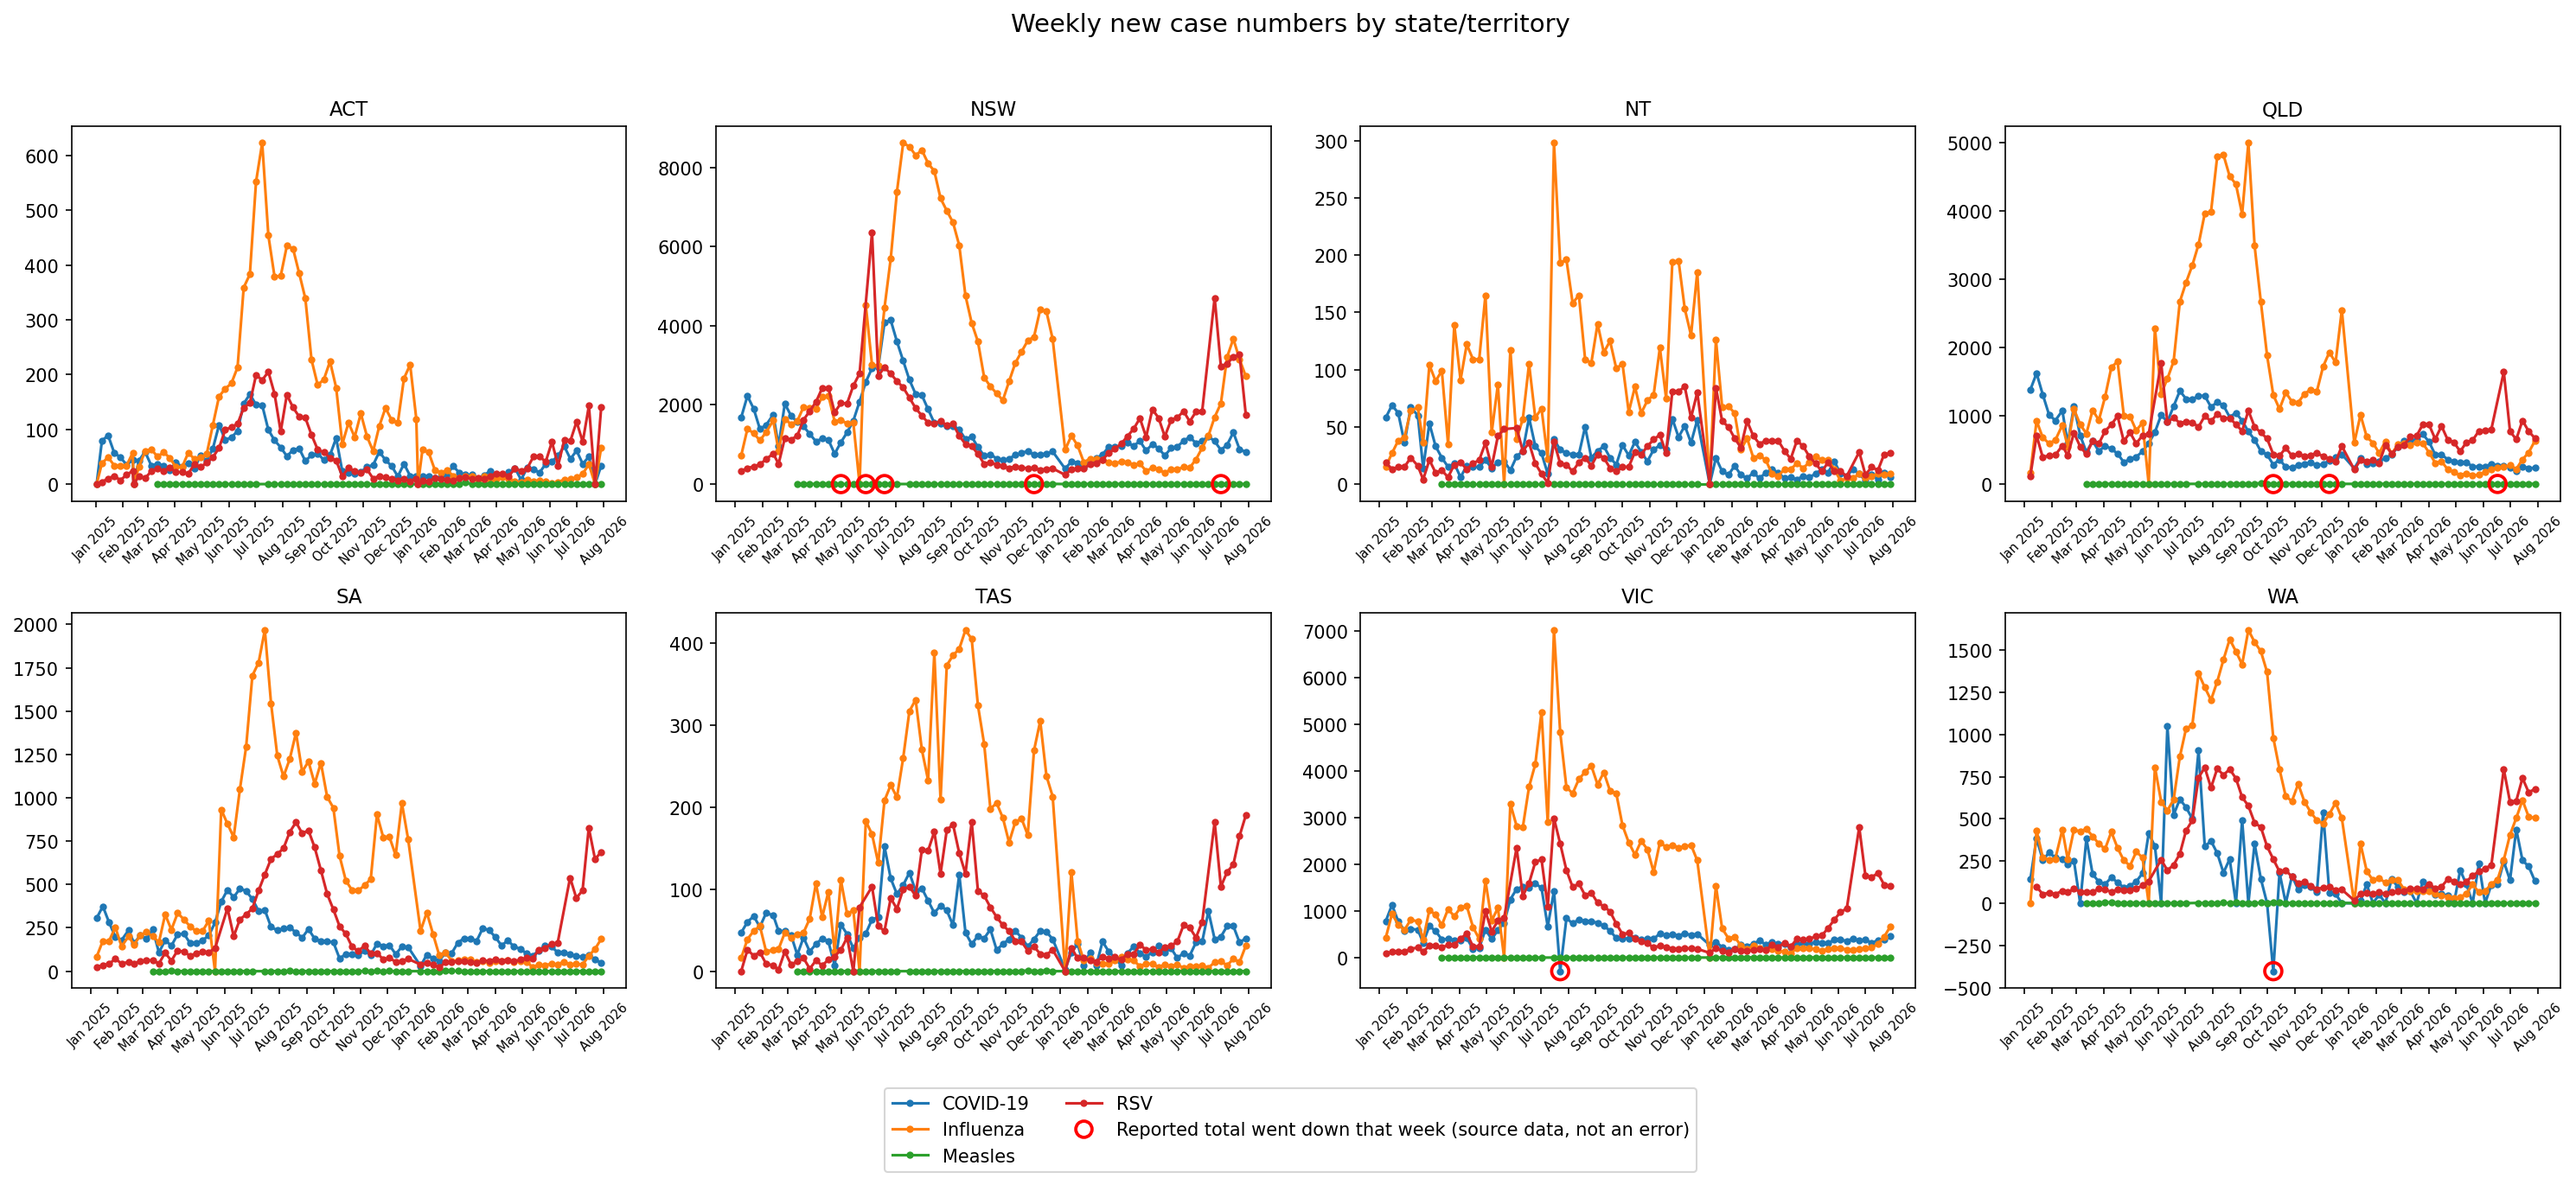
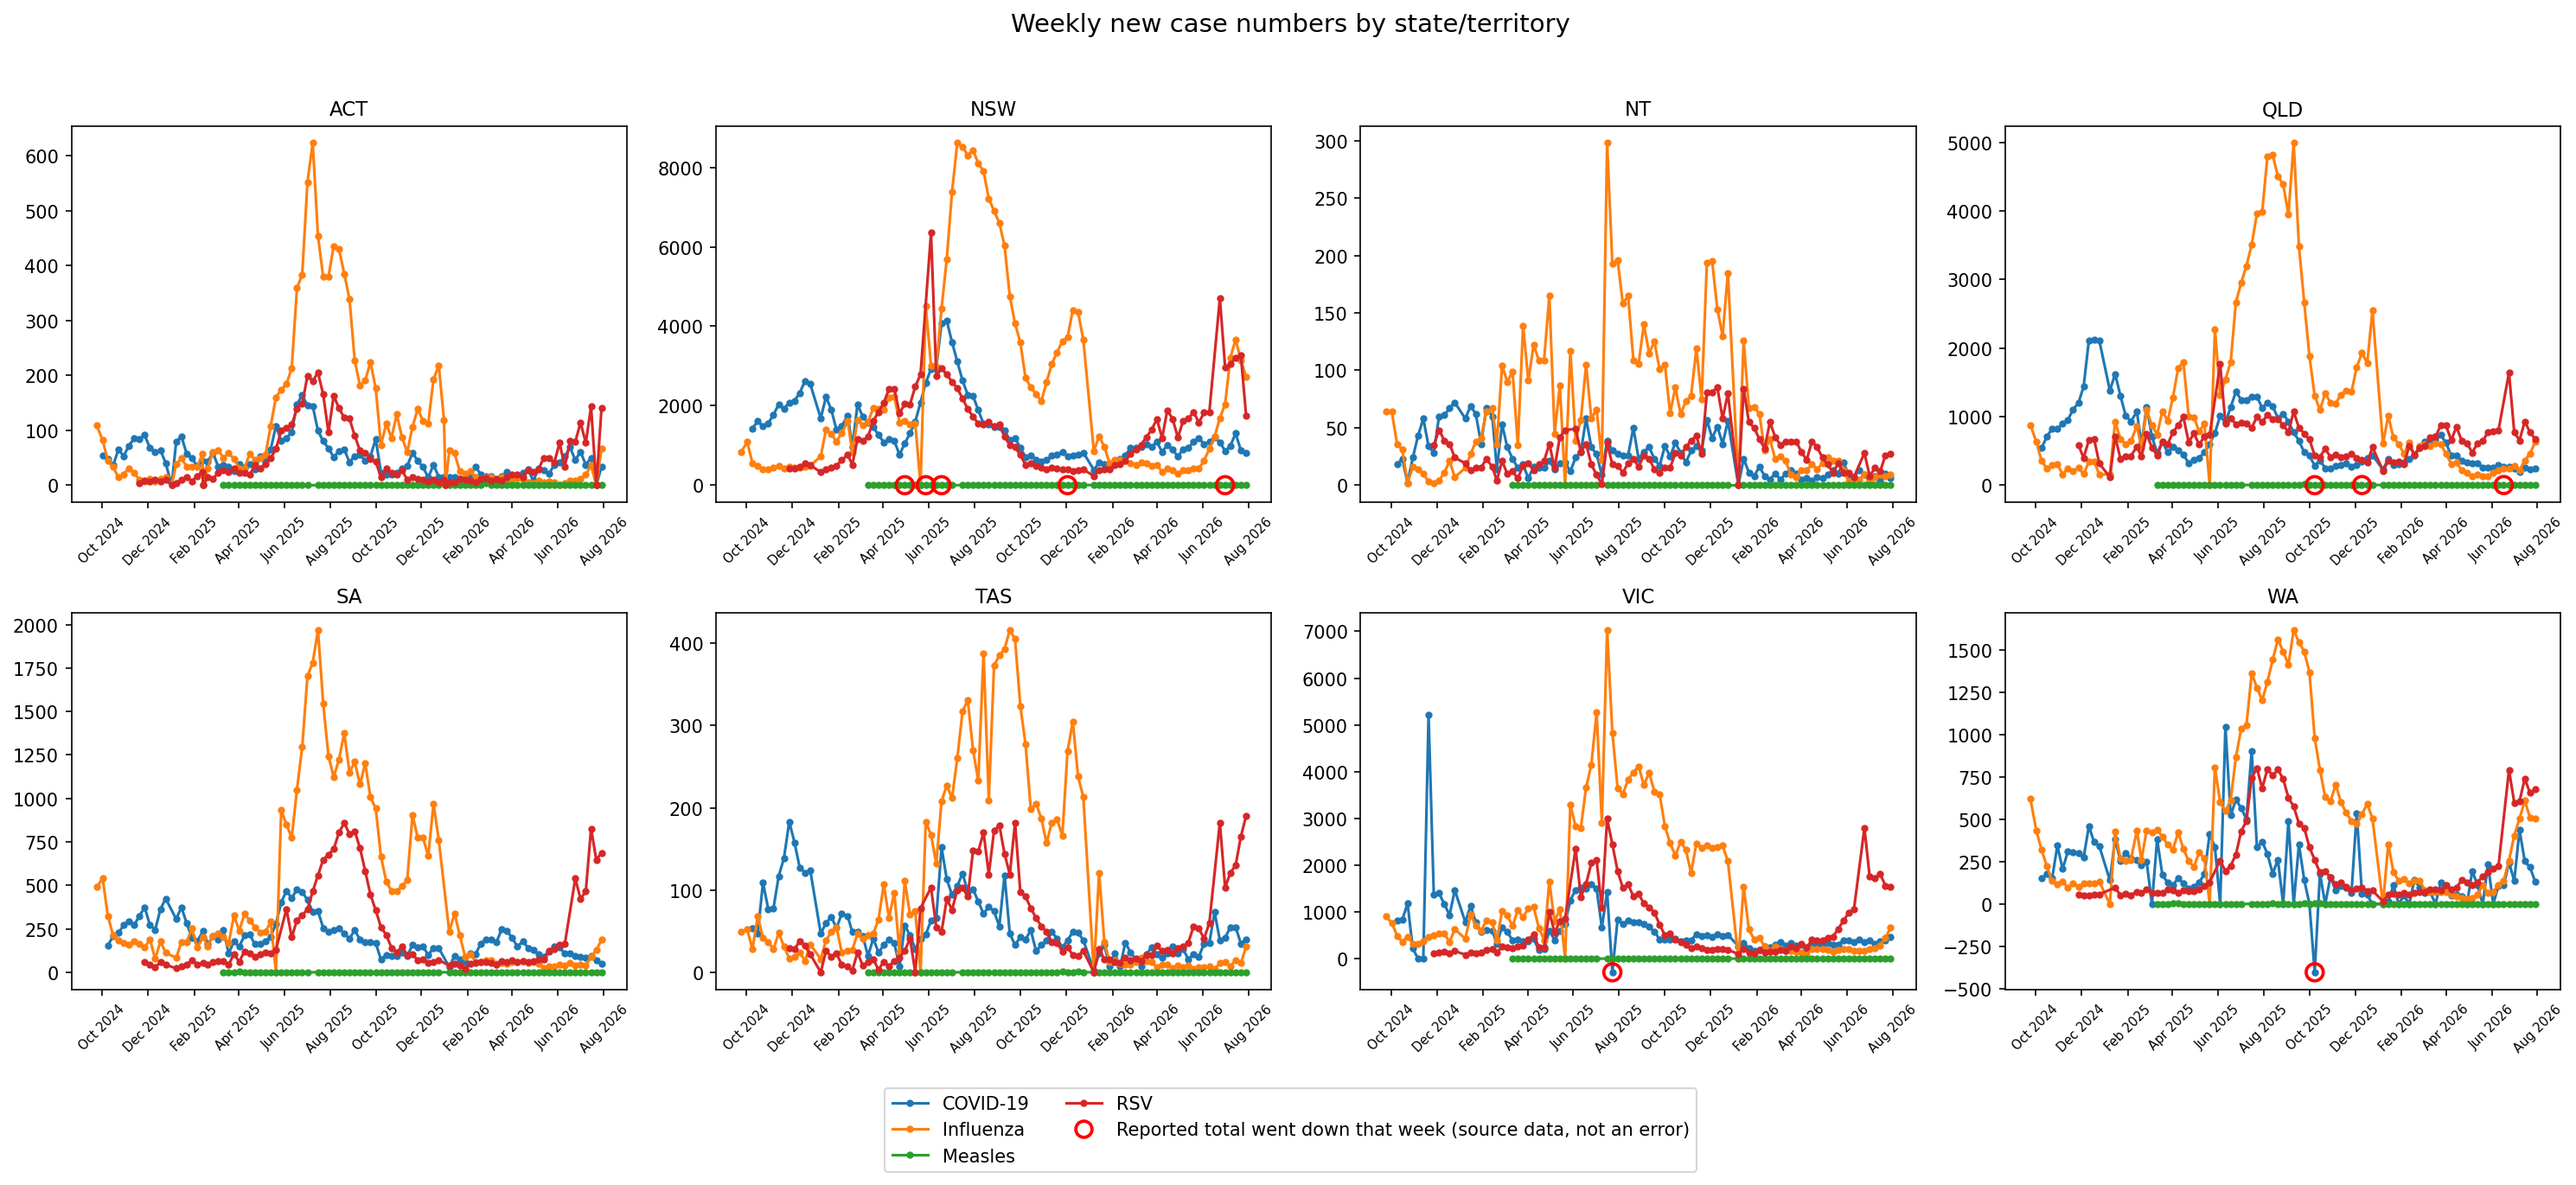
Add option to create graphs for just one year and correct the header for fetching data

diff --git a/nindss_tracker.py b/nindss_tracker.py
@@ -68,7 +68,16 @@ import sys
 import time
 import uuid
 
-import requests
+# curl_cffi, not the plain `requests` library: identical HTTP headers were
+# confirmed (via a real browser's HAR capture) to NOT be enough to avoid a
+# 403 here as of Aug 2026 - the remaining difference is TLS fingerprint
+# (JA3/JA4) and HTTP/2 handshake behaviour, which `requests`' stock TLS
+# stack can't replicate no matter what headers you set. curl_cffi wraps
+# curl-impersonate to send an actual Chrome-shaped TLS ClientHello. Its
+# .get()/.post()/.raise_for_status() API matches `requests` closely enough
+# to be a near drop-in swap. If dashboard requests start failing again,
+# suspect this same TLS-fingerprinting layer before anything else.
+from curl_cffi import requests
 
 # ---------------------------------------------------------------------------
 # Configuration - update these if the dashboard changes (see CAVEATS above)
@@ -97,8 +106,26 @@ COMMON_HEADERS = {
     "referer": "https://app.powerbi.com/",
     "user-agent": (
         "Mozilla/5.0 (Windows NT 10.0; Win64; x64) AppleWebKit/537.36 "
-        "(KHTML, like Gecko) Chrome/126.0.0.0 Safari/537.36"
+        "(KHTML, like Gecko) Chrome/150.0.0.0 Safari/537.36"
     ),
+    # As of Aug 2026 the dashboard started returning 403 Forbidden without
+    # these. They're headers a real browser sends automatically that the
+    # `requests` library never adds on its own - Microsoft's edge/WAF layer
+    # for Power BI appears to now check for them as a basic bot-detection
+    # signal. If this script starts failing again, re-capture a HAR (see
+    # CAVEATS above) and diff its headers against this list first, since
+    # that's the most likely thing to have changed again.
+    "cache-control": "no-cache",
+    "pragma": "no-cache",
+    "dnt": "1",
+    "sec-gpc": "1",
+    "priority": "u=1, i",
+    "sec-ch-ua": '"Not;A=Brand";v="8", "Chromium";v="150", "Google Chrome";v="150"',
+    "sec-ch-ua-mobile": "?0",
+    "sec-ch-ua-platform": '"Windows"',
+    "sec-fetch-dest": "empty",
+    "sec-fetch-mode": "cors",
+    "sec-fetch-site": "cross-site",
 }
 
 REQUEST_TIMEOUT = 30
@@ -114,7 +141,10 @@ def bootstrap_session():
     headers["activityid"] = str(uuid.uuid4())
     headers["requestid"] = str(uuid.uuid4())
 
-    resp = requests.get(MODELS_URL, headers=headers, timeout=REQUEST_TIMEOUT)
+    resp = requests.get(MODELS_URL, headers=headers, timeout=REQUEST_TIMEOUT, impersonate="chrome")
+    if not resp.ok:
+        print(f"  [debug] HTTP {resp.status_code} response headers: {dict(resp.headers)}", file=sys.stderr)
+        print(f"  [debug] response body (first 500 chars): {resp.text[:500]}", file=sys.stderr)
     resp.raise_for_status()
     data = resp.json()
 
@@ -371,8 +401,12 @@ def fetch_disease_year_state_totals(session_info, disease_name, report_id, max_r
     for attempt in range(1, max_retries + 1):
         try:
             resp = requests.post(
-                session_info["query_url"], headers=headers, json=body, timeout=REQUEST_TIMEOUT
+                session_info["query_url"], headers=headers, json=body,
+                timeout=REQUEST_TIMEOUT, impersonate="chrome",
             )
+            if not resp.ok:
+                print(f"  [debug] HTTP {resp.status_code} response headers: {dict(resp.headers)}", file=sys.stderr)
+                print(f"  [debug] response body (first 500 chars): {resp.text[:500]}", file=sys.stderr)
             resp.raise_for_status()
             data = resp.json()
             dsr = data["results"][0]["result"]["data"]["dsr"]
@@ -500,19 +534,16 @@ def compute_new_cases(snapshot_rows):
 # Step 4: plotting
 # ---------------------------------------------------------------------------
 
-def _plot_new_cases_on_ax(ax, results, state, diseases):
-    """Draw the weekly-new-cases lines for one state onto one axis."""
+def _plot_new_cases_on_ax(ax, results, state, diseases, year=None):
+    """Draw the weekly-new-cases lines for one state onto one axis.
+    If year is given (e.g. '2025'), only that calendar year is plotted."""
     import matplotlib.dates as mdates
 
-    this_year = dt.date.today().year
-    relevant_years = {str(this_year), str(this_year - 1)}
-    chartable = [
-        r for r in results
-        if r["state"] == state and r["year"] in relevant_years
-    ]
+    chartable = [r for r in results if r["state"] == state and (year is None or r["year"] == year)]
 
     any_plotted = False
     any_anomaly = False
+    all_dates = []
     for disease in diseases:
         points = [r for r in chartable if r["disease"] == disease and r["new_cases"] is not None]
         points.sort(key=lambda r: (r["year"], r["run_date"]))
@@ -527,6 +558,7 @@ def _plot_new_cases_on_ax(ax, results, state, diseases):
         ys = [r["new_cases"] for r in points]
         ax.plot(xs, ys, marker="o", markersize=3, label=disease)
         any_plotted = True
+        all_dates.extend(xs)
         anomalies = [r for r in points if r["anomaly"]]
         if anomalies:
             any_anomaly = True
@@ -538,7 +570,12 @@ def _plot_new_cases_on_ax(ax, results, state, diseases):
             )
 
     if any_plotted:
-        ax.xaxis.set_major_locator(mdates.MonthLocator())
+        # Full history can span well over a year - space tick labels out
+        # further (every 2nd/3rd month) once there's enough range that
+        # monthly labels would start overlapping.
+        span_months = (max(all_dates).year - min(all_dates).year) * 12 + (max(all_dates).month - min(all_dates).month)
+        interval = 1 if span_months <= 14 else (2 if span_months <= 26 else 3)
+        ax.xaxis.set_major_locator(mdates.MonthLocator(interval=interval))
         ax.xaxis.set_major_formatter(mdates.DateFormatter("%b %Y"))
     else:
         ax.text(
@@ -549,20 +586,22 @@ def _plot_new_cases_on_ax(ax, results, state, diseases):
     return any_plotted, any_anomaly
 
 
-def plot_weekly_new_cases(results, out_path, state="National"):
-    """Single chart of weekly new cases for one state (default: National)."""
+def plot_weekly_new_cases(results, out_path, state="National", year=None):
+    """Single chart of weekly new cases for one state (default: National).
+    If year is given, only that calendar year is shown."""
     import matplotlib
     matplotlib.use("Agg")
     import matplotlib.pyplot as plt
 
     diseases = sorted(set(r["disease"] for r in results if r["state"] == state))
     fig, ax = plt.subplots(figsize=(10, 6.5))
-    any_plotted, any_anomaly = _plot_new_cases_on_ax(ax, results, state, diseases)
+    any_plotted, any_anomaly = _plot_new_cases_on_ax(ax, results, state, diseases, year=year)
 
+    title_suffix = f" - {year}" if year else ""
     if any_plotted:
         ax.set_xlabel("Month")
         ax.set_ylabel("New notifications since previous run")
-        ax.set_title(f"Weekly new case numbers - {state} (confirmed + probable)")
+        ax.set_title(f"Weekly new case numbers - {state} (confirmed + probable){title_suffix}")
         handles, labels = ax.get_legend_handles_labels()
         if any_anomaly:
             marker = plt.Line2D(
@@ -581,15 +620,16 @@ def plot_weekly_new_cases(results, out_path, state="National"):
         fig.autofmt_xdate(rotation=45)
         fig.tight_layout(rect=(0, 0.13, 1, 1))
     else:
-        ax.set_title(f"Weekly new case numbers - {state}")
+        ax.set_title(f"Weekly new case numbers - {state}{title_suffix}")
         fig.tight_layout()
 
     fig.savefig(out_path, dpi=150, bbox_inches="tight")
     plt.close(fig)
 
 
-def plot_weekly_new_cases_by_state(results, out_path, states):
-    """Grid of small weekly-new-cases charts, one subplot per state."""
+def plot_weekly_new_cases_by_state(results, out_path, states, year=None):
+    """Grid of small weekly-new-cases charts, one subplot per state.
+    If year is given, only that calendar year is shown."""
     import matplotlib
     matplotlib.use("Agg")
     import matplotlib.pyplot as plt
@@ -602,7 +642,7 @@ def plot_weekly_new_cases_by_state(results, out_path, states):
     any_anomaly_overall = False
     for i, state in enumerate(states):
         ax = axes[i // ncols][i % ncols]
-        _, any_anomaly = _plot_new_cases_on_ax(ax, results, state, diseases)
+        _, any_anomaly = _plot_new_cases_on_ax(ax, results, state, diseases, year=year)
         any_anomaly_overall = any_anomaly_overall or any_anomaly
         ax.set_title(state, fontsize=11)
         ax.tick_params(axis="x", labelrotation=45, labelsize=7)
@@ -627,7 +667,8 @@ def plot_weekly_new_cases_by_state(results, out_path, states):
             handles, labels, loc="lower center", ncol=2,
             bbox_to_anchor=(0.5, 0.0), fontsize=10, frameon=True,
         )
-    fig.suptitle("Weekly new case numbers by state/territory", fontsize=14)
+    title_suffix = f" - {year}" if year else ""
+    fig.suptitle(f"Weekly new case numbers by state/territory{title_suffix}", fontsize=14)
     fig.tight_layout(rect=(0, 0.09, 1, 0.96))
     fig.savefig(out_path, dpi=150, bbox_inches="tight")
     plt.close(fig)
@@ -722,9 +763,18 @@ def main():
     plot_weekly_new_cases(results, weekly_national_png, state="National")
     plot_weekly_new_cases_by_state(results, weekly_by_state_png, states)
 
+    years_present = sorted(set(r["year"] for r in results if r["new_cases"] is not None))
+    year_files = []
+    for year in years_present:
+        national_year_png = os.path.join(args.graphs_dir, f"weekly_new_cases_national_{year}.png")
+        by_state_year_png = os.path.join(args.graphs_dir, f"weekly_new_cases_by_state_{year}.png")
+        plot_weekly_new_cases(results, national_year_png, state="National", year=year)
+        plot_weekly_new_cases_by_state(results, by_state_year_png, states, year=year)
+        year_files += [national_year_png, by_state_year_png]
+
     print(
         f"\nSaved:\n  {annual_csv}\n  {weekly_csv}\n  {weekly_national_png}\n"
-        f"  {weekly_by_state_png}"
+        f"  {weekly_by_state_png}\n  " + "\n  ".join(year_files)
     )
 
 
